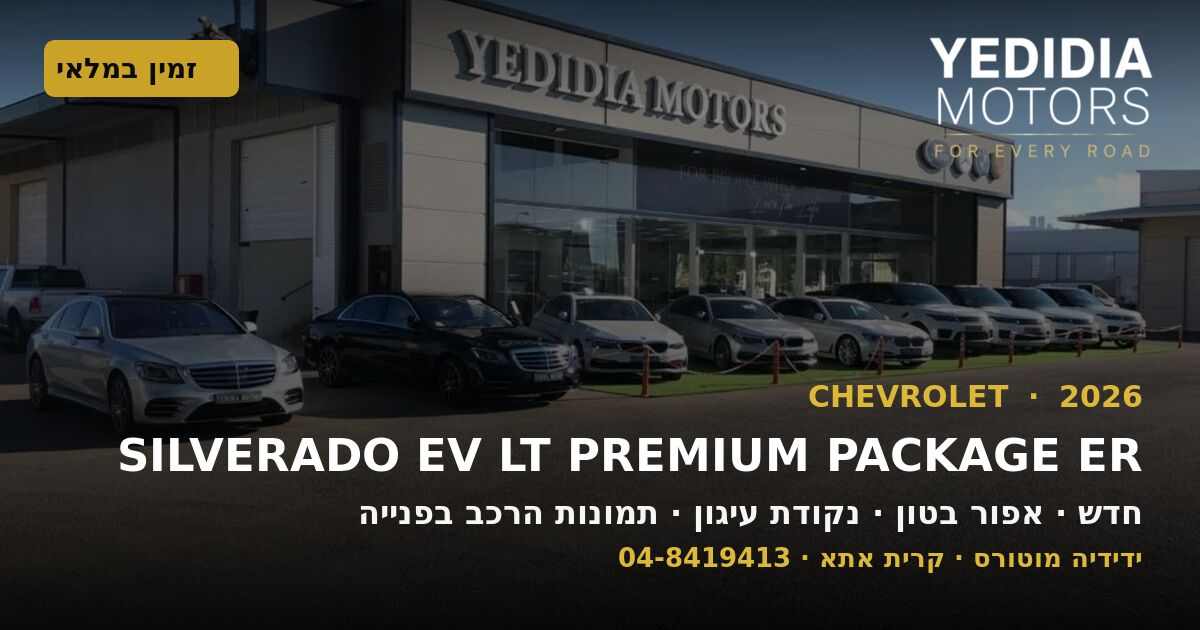
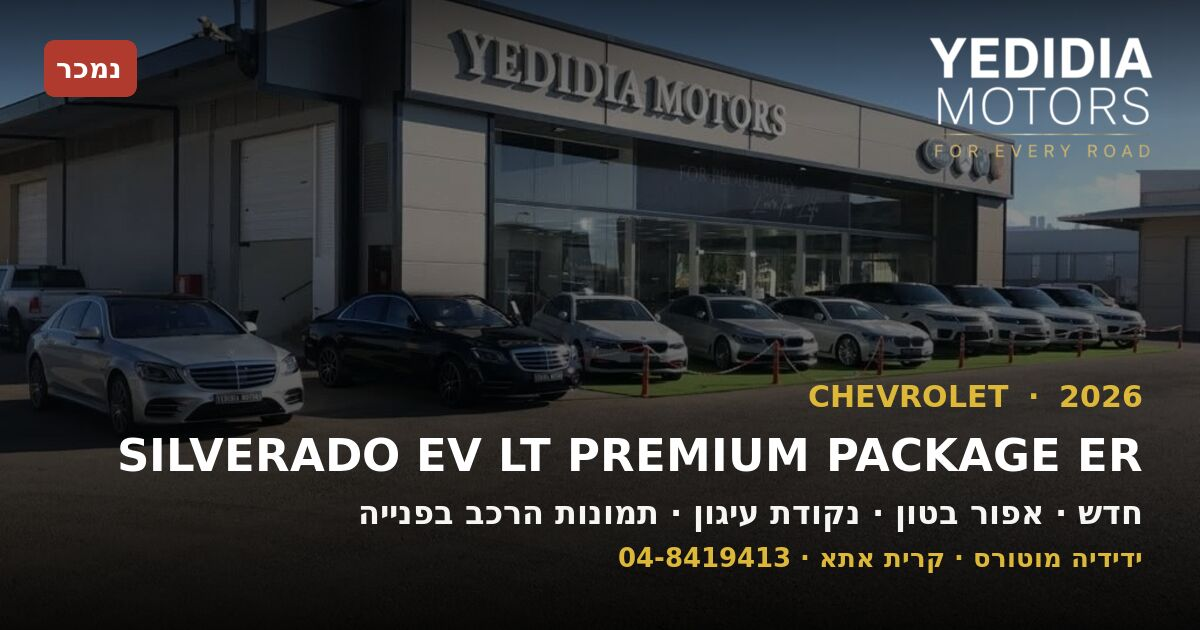
עדכון מלאי, תמונות ועמודי רכב

Changed region(s): [[0.0308, 0.0603, 0.2158, 0.181]]

diff --git a/stock/413288/index.html b/stock/413288/index.html
@@ -4,7 +4,7 @@
 <meta charset="utf-8">
 <meta name="viewport" content="width=device-width, initial-scale=1">
 <title>CHEVROLET SILVERADO EV LT PREMIUM PACKAGE ER 2026 · אפור בטון | ידידיה מוטורס</title>
-<meta name="description" content="CHEVROLET SILVERADO EV LT PREMIUM PACKAGE ER 2026 למכירה בידידיה מוטורס, המעפילים 1, קרית אתא. חדש · 3LT · אפור בטון · חשמלי · הנעה כפולה (AWD) · טנדר · נקודת עיגון · הנעה מרחוק">
+<meta name="description" content="CHEVROLET SILVERADO EV LT PREMIUM PACKAGE ER 2026 שנמכר בידידיה מוטורס, המעפילים 1, קרית אתא. חדש · 3LT · אפור בטון · חשמלי · הנעה כפולה (AWD) · טנדר · נקודת עיגון · הנעה מרחוק">
 <link rel="canonical" href="https://www.yedidia-motors.com/stock/413288/">
 <link rel="stylesheet" href="/assets/fonts/fonts.css">
 <script src="/assets/site.js" defer></script>
@@ -12,7 +12,7 @@
 <meta property="og:site_name" content="ידידיה מוטורס">
 <meta property="og:locale" content="he_IL">
 <meta property="og:title" content="CHEVROLET SILVERADO EV LT PREMIUM PACKAGE ER 2026 · אפור בטון | ידידיה מוטורס">
-<meta property="og:description" content="CHEVROLET SILVERADO EV LT PREMIUM PACKAGE ER 2026 למכירה בידידיה מוטורס, המעפילים 1, קרית אתא. חדש · 3LT · אפור בטון · חשמלי · הנעה כפולה (AWD) · טנדר · נקודת עיגון · הנעה מרחוק">
+<meta property="og:description" content="CHEVROLET SILVERADO EV LT PREMIUM PACKAGE ER 2026 שנמכר בידידיה מוטורס, המעפילים 1, קרית אתא. חדש · 3LT · אפור בטון · חשמלי · הנעה כפולה (AWD) · טנדר · נקודת עיגון · הנעה מרחוק">
 <meta property="og:url" content="https://www.yedidia-motors.com/stock/413288/">
 <meta property="og:image" content="https://www.yedidia-motors.com/assets/vehicles/413288/share.jpg">
 <meta property="og:image:secure_url" content="https://www.yedidia-motors.com/assets/vehicles/413288/share.jpg">
@@ -22,9 +22,9 @@
 <meta property="og:image:alt" content="CHEVROLET SILVERADO EV LT PREMIUM PACKAGE ER 2026 — ידידיה מוטורס">
 <meta name="twitter:card" content="summary_large_image">
 <meta name="twitter:title" content="CHEVROLET SILVERADO EV LT PREMIUM PACKAGE ER 2026 · אפור בטון | ידידיה מוטורס">
-<meta name="twitter:description" content="CHEVROLET SILVERADO EV LT PREMIUM PACKAGE ER 2026 למכירה בידידיה מוטורס, המעפילים 1, קרית אתא. חדש · 3LT · אפור בטון · חשמלי · הנעה כפולה (AWD) · טנדר · נקודת עיגון · הנעה מרחוק">
+<meta name="twitter:description" content="CHEVROLET SILVERADO EV LT PREMIUM PACKAGE ER 2026 שנמכר בידידיה מוטורס, המעפילים 1, קרית אתא. חדש · 3LT · אפור בטון · חשמלי · הנעה כפולה (AWD) · טנדר · נקודת עיגון · הנעה מרחוק">
 <meta name="twitter:image" content="https://www.yedidia-motors.com/assets/vehicles/413288/share.jpg">
-<script type="application/ld+json">{"@context":"https://schema.org","@type":"Car","name":"CHEVROLET SILVERADO EV LT PREMIUM PACKAGE ER 2026","url":"https://www.yedidia-motors.com/stock/413288/","brand":{"@type":"Brand","name":"CHEVROLET"},"model":"SILVERADO EV LT PREMIUM PACKAGE ER","itemCondition":"https://schema.org/NewCondition","offers":{"@type":"Offer","availability":"https://schema.org/InStock","priceCurrency":"ILS","seller":{"@id":"https://www.yedidia-motors.com/#dealer"},"url":"https://www.yedidia-motors.com/stock/413288/"},"vehicleModelDate":"2026","color":"אפור בטון","mileageFromOdometer":{"@type":"QuantitativeValue","value":0,"unitCode":"KMT"},"vehicleConfiguration":"3LT","bodyType":"טנדר","fuelType":"חשמלי","driveWheelConfiguration":"הנעה כפולה (AWD)","numberOfDoors":4,"vehicleEngine":{"@type":"EngineSpecification","name":"חשמלי","fuelType":"חשמלי"},"countryOfOrigin":"ארה״ב"}</script>
+<script type="application/ld+json">{"@context":"https://schema.org","@type":"Car","name":"CHEVROLET SILVERADO EV LT PREMIUM PACKAGE ER 2026","url":"https://www.yedidia-motors.com/stock/413288/","brand":{"@type":"Brand","name":"CHEVROLET"},"model":"SILVERADO EV LT PREMIUM PACKAGE ER","itemCondition":"https://schema.org/NewCondition","offers":{"@type":"Offer","availability":"https://schema.org/SoldOut","priceCurrency":"ILS","seller":{"@id":"https://www.yedidia-motors.com/#dealer"},"url":"https://www.yedidia-motors.com/stock/413288/"},"vehicleModelDate":"2026","color":"אפור בטון","mileageFromOdometer":{"@type":"QuantitativeValue","value":0,"unitCode":"KMT"},"vehicleConfiguration":"3LT","bodyType":"טנדר","fuelType":"חשמלי","driveWheelConfiguration":"הנעה כפולה (AWD)","numberOfDoors":4,"vehicleEngine":{"@type":"EngineSpecification","name":"חשמלי","fuelType":"חשמלי"},"countryOfOrigin":"ארה״ב"}</script>
 <script type="application/ld+json">{"@context":"https://schema.org","@type":"BreadcrumbList","itemListElement":[{"@type":"ListItem","position":1,"name":"ידידיה מוטורס","item":"https://www.yedidia-motors.com/"},{"@type":"ListItem","position":2,"name":"המלאי שלנו","item":"https://www.yedidia-motors.com/stock/"},{"@type":"ListItem","position":3,"name":"CHEVROLET SILVERADO EV LT PREMIUM PACKAGE ER 2026"}]}</script>
 <style>
   :root{--bg:#0b0b0c;--bg-2:#141416;--bg-3:#1b1b1e;--line:#2a2a2e;--fg:#f5f5f3;--muted:#a1a1aa;--gold:#c9a227}
@@ -73,13 +73,13 @@
 
 <main class="wrap" id="main" tabindex="-1">
   <h1>CHEVROLET SILVERADO EV LT PREMIUM PACKAGE ER 2026</h1>
-  <p class="sub">אפור בטון · חדש · זמין</p>
+  <p class="sub">אפור בטון · חדש · נמכר</p>
   
 
   <div class="none">אין עדיין תמונות לרכב הזה. צרו קשר ונשלח לכם תמונות עדכניות.</div>
 
   <h2>מפרט</h2>
-  <table><tr><th>יצרן</th><td>CHEVROLET</td></tr><tr><th>דגם</th><td>SILVERADO EV LT PREMIUM PACKAGE ER</td></tr><tr><th>שנת דגם</th><td>2026</td></tr><tr><th>גימור</th><td>3LT</td></tr><tr><th>צבע</th><td>אפור בטון</td></tr><tr><th>קילומטראז׳</th><td>0 ק״מ</td></tr><tr><th>מצב הרכב</th><td>חדש</td></tr><tr><th>מרכב</th><td>טנדר</td></tr><tr><th>מנוע</th><td>חשמלי</td></tr><tr><th>דלק</th><td>חשמלי</td></tr><tr><th>הנעה</th><td>הנעה כפולה (AWD)</td></tr><tr><th>דלתות</th><td>4</td></tr><tr><th>הספק</th><td>645 כ״ס</td></tr><tr><th>טווח נסיעה</th><td>עד כ־660 ק״מ (הערכת יצרן)</td></tr><tr><th>טעינה מהירה</th><td>עד 300 קילוואט DC</td></tr><tr><th>כושר גרירה</th><td>עד כ־5,670 ק״ג</td></tr><tr><th>משקל כולל מותר</th><td>עד 4,536 ק״ג</td></tr><tr><th>ארץ ייצור</th><td>ארה״ב</td></tr><tr><th>סטטוס</th><td>זמין</td></tr><tr><th>מזהה</th><td>413288</td></tr></table>
+  <table><tr><th>יצרן</th><td>CHEVROLET</td></tr><tr><th>דגם</th><td>SILVERADO EV LT PREMIUM PACKAGE ER</td></tr><tr><th>שנת דגם</th><td>2026</td></tr><tr><th>גימור</th><td>3LT</td></tr><tr><th>צבע</th><td>אפור בטון</td></tr><tr><th>קילומטראז׳</th><td>0 ק״מ</td></tr><tr><th>מצב הרכב</th><td>חדש</td></tr><tr><th>מרכב</th><td>טנדר</td></tr><tr><th>מנוע</th><td>חשמלי</td></tr><tr><th>דלק</th><td>חשמלי</td></tr><tr><th>הנעה</th><td>הנעה כפולה (AWD)</td></tr><tr><th>דלתות</th><td>4</td></tr><tr><th>הספק</th><td>645 כ״ס</td></tr><tr><th>טווח נסיעה</th><td>עד כ־660 ק״מ (הערכת יצרן)</td></tr><tr><th>טעינה מהירה</th><td>עד 300 קילוואט DC</td></tr><tr><th>כושר גרירה</th><td>עד כ־5,670 ק״ג</td></tr><tr><th>משקל כולל מותר</th><td>עד 4,536 ק״ג</td></tr><tr><th>ארץ ייצור</th><td>ארה״ב</td></tr><tr><th>סטטוס</th><td>נמכר</td></tr><tr><th>מזהה</th><td>413288</td></tr></table>
 
   <h2>אבזור</h2>
   <ul class="eq"><li>סוללת Extended Range — טווח עד כ־660 ק״מ (410 מייל, EPA)</li><li>שני מנועים, הנעה 4WD — 645 כ״ס ו־765 ליברות-רגל במצב WOW</li><li>טעינה מהירה DC עד 300 קילוואט; מטען AC מובנה 11.5 קילוואט</li><li>מסך מרכזי 17.7 אינץ׳ עם Google Built-in ולוח מחוונים דיגיטלי 11 אינץ׳</li><li>תאורת LED מלאה כולל סמל Bowtie קדמי מואר</li><li>תא מטען קדמי חשמלי (eTrunk) עם מכסה מנוע חשמלי</li><li>בקרת אקלים דו־אזורית, טעינה אלחוטית, תאורת אווירה</li><li>בקרת שיוט אדפטיבית, Chevy Safety Assist, מצלמות HD Surround Vision, בקר בלמי גרור</li><li>כניסה והתנעה ללא מפתח, התנעה מרחוק, Hitch Guidance</li><li>כושר גרירה עד כ־5,670 ק״ג</li><li>חבילת Premium: Super Cruise — נהיגה ללא ידיים בכבישים ממופים, תצוגה עילית 14 אינץ׳, Multi-Flex Midgate — פתח בין הארגז לתא הנוסעים, מטען AC 19.2 קילוואט, חניה אוטומטית משופרת, ציפוי ארגז</li></ul>
@@ -98,7 +98,7 @@
   </div>
 
   <div class="share" aria-label="שיתוף">
-    <a href="https://wa.me/?text=%F0%9F%9A%98%20CHEVROLET%20SILVERADO%20EV%20LT%20PREMIUM%20PACKAGE%20ER%202026%0A%D7%97%D7%93%D7%A9%20%C2%B7%203LT%20%C2%B7%20%D7%90%D7%A4%D7%95%D7%A8%20%D7%91%D7%98%D7%95%D7%9F%20%C2%B7%20%D7%A0%D7%A7%D7%95%D7%93%D7%AA%20%D7%A2%D7%99%D7%92%D7%95%D7%9F%20%C2%B7%20%D7%94%D7%A0%D7%A2%D7%94%20%D7%9E%D7%A8%D7%97%D7%95%D7%A7%0A%D7%97%D7%A9%D7%9E%D7%9C%D7%99%20%C2%B7%20%D7%94%D7%A0%D7%A2%D7%94%20%D7%9B%D7%A4%D7%95%D7%9C%D7%94%20(AWD)%20%C2%B7%20%D7%98%D7%A0%D7%93%D7%A8%0A%E2%9C%94%20%D7%A1%D7%95%D7%9C%D7%9C%D7%AA%20Extended%20Range%20%E2%80%94%20%D7%98%D7%95%D7%95%D7%97%20%D7%A2%D7%93%20%D7%9B%D6%BE660%20%D7%A7%D7%B4%D7%9E%20(410%20%D7%9E%D7%99%D7%99%D7%9C%2C%20EPA)%0A%E2%9C%94%20%D7%A9%D7%A0%D7%99%20%D7%9E%D7%A0%D7%95%D7%A2%D7%99%D7%9D%2C%20%D7%94%D7%A0%D7%A2%D7%94%204WD%20%E2%80%94%20645%20%D7%9B%D7%B4%D7%A1%20%D7%95%D6%BE765%20%D7%9C%D7%99%D7%91%D7%A8%D7%95%D7%AA-%D7%A8%D7%92%D7%9C%20%D7%91%D7%9E%D7%A6%D7%91%20WOW%0A%E2%9C%94%20%D7%98%D7%A2%D7%99%D7%A0%D7%94%20%D7%9E%D7%94%D7%99%D7%A8%D7%94%20DC%20%D7%A2%D7%93%20300%20%D7%A7%D7%99%D7%9C%D7%95%D7%95%D7%90%D7%98%3B%20%D7%9E%D7%98%D7%A2%D7%9F%20AC%20%D7%9E%D7%95%D7%91%D7%A0%D7%94%2011.5%20%D7%A7%D7%99%D7%9C%D7%95%D7%95%D7%90%D7%98%0A%D7%91%D7%9E%D7%9C%D7%90%D7%99%20%D7%91%D7%99%D7%93%D7%99%D7%93%D7%99%D7%94%20%D7%9E%D7%95%D7%98%D7%95%D7%A8%D7%A1%2C%20%D7%A7%D7%A8%D7%99%D7%AA%20%D7%90%D7%AA%D7%90.%20%D7%9C%D7%A4%D7%A8%D7%98%D7%99%D7%9D%20%D7%95%D7%AA%D7%99%D7%90%D7%95%D7%9D%20%D7%A0%D7%A1%D7%99%D7%A2%D7%AA%20%D7%9E%D7%91%D7%97%D7%9F%3A%2004-8419413%0Ahttps%3A%2F%2Fwww.yedidia-motors.com%2Fstock%2F413288%2F" target="_blank" rel="noopener" aria-label="שיתוף בוואטסאפ" title="שיתוף בוואטסאפ"><svg viewBox="0 0 24 24" aria-hidden="true"><path d="M17.5 14.4c-.3-.1-1.8-.9-2-1-.3-.1-.5-.1-.7.1-.2.3-.8 1-1 1.2-.2.2-.3.2-.6.1-.3-.1-1.3-.5-2.4-1.5-.9-.8-1.5-1.8-1.7-2.1-.2-.3 0-.5.1-.6l.5-.5c.1-.2.2-.3.3-.5.1-.2 0-.4 0-.5l-.9-2.2c-.2-.6-.5-.5-.7-.5h-.6c-.2 0-.5.1-.8.4-.3.3-1 1-1 2.5s1.1 2.9 1.2 3.1c.1.2 2.1 3.2 5.1 4.5.7.3 1.3.5 1.7.6.7.2 1.4.2 1.9.1.6-.1 1.8-.7 2-1.4.2-.7.2-1.3.2-1.4-.1-.2-.3-.3-.6-.4zM12 2C6.5 2 2 6.5 2 12c0 1.8.5 3.5 1.3 5L2 22l5.2-1.4c1.4.8 3.1 1.2 4.8 1.2 5.5 0 10-4.5 10-10S17.5 2 12 2zm0 18.2c-1.5 0-3-.4-4.2-1.2l-.3-.2-3.1.8.8-3-.2-.3C4.2 15 3.8 13.5 3.8 12c0-4.5 3.7-8.2 8.2-8.2s8.2 3.7 8.2 8.2-3.7 8.2-8.2 8.2z"/></svg></a>
+    <a href="https://wa.me/?text=%F0%9F%9A%98%20CHEVROLET%20SILVERADO%20EV%20LT%20PREMIUM%20PACKAGE%20ER%202026%0A%D7%97%D7%93%D7%A9%20%C2%B7%203LT%20%C2%B7%20%D7%90%D7%A4%D7%95%D7%A8%20%D7%91%D7%98%D7%95%D7%9F%20%C2%B7%20%D7%A0%D7%A7%D7%95%D7%93%D7%AA%20%D7%A2%D7%99%D7%92%D7%95%D7%9F%20%C2%B7%20%D7%94%D7%A0%D7%A2%D7%94%20%D7%9E%D7%A8%D7%97%D7%95%D7%A7%0A%D7%97%D7%A9%D7%9E%D7%9C%D7%99%20%C2%B7%20%D7%94%D7%A0%D7%A2%D7%94%20%D7%9B%D7%A4%D7%95%D7%9C%D7%94%20(AWD)%20%C2%B7%20%D7%98%D7%A0%D7%93%D7%A8%0A%E2%9C%94%20%D7%A1%D7%95%D7%9C%D7%9C%D7%AA%20Extended%20Range%20%E2%80%94%20%D7%98%D7%95%D7%95%D7%97%20%D7%A2%D7%93%20%D7%9B%D6%BE660%20%D7%A7%D7%B4%D7%9E%20(410%20%D7%9E%D7%99%D7%99%D7%9C%2C%20EPA)%0A%E2%9C%94%20%D7%A9%D7%A0%D7%99%20%D7%9E%D7%A0%D7%95%D7%A2%D7%99%D7%9D%2C%20%D7%94%D7%A0%D7%A2%D7%94%204WD%20%E2%80%94%20645%20%D7%9B%D7%B4%D7%A1%20%D7%95%D6%BE765%20%D7%9C%D7%99%D7%91%D7%A8%D7%95%D7%AA-%D7%A8%D7%92%D7%9C%20%D7%91%D7%9E%D7%A6%D7%91%20WOW%0A%E2%9C%94%20%D7%98%D7%A2%D7%99%D7%A0%D7%94%20%D7%9E%D7%94%D7%99%D7%A8%D7%94%20DC%20%D7%A2%D7%93%20300%20%D7%A7%D7%99%D7%9C%D7%95%D7%95%D7%90%D7%98%3B%20%D7%9E%D7%98%D7%A2%D7%9F%20AC%20%D7%9E%D7%95%D7%91%D7%A0%D7%94%2011.5%20%D7%A7%D7%99%D7%9C%D7%95%D7%95%D7%90%D7%98%0A%D7%A0%D7%9E%D7%9B%D7%A8%20%E2%80%94%20%D7%90%D7%91%D7%9C%20%D7%99%D7%A9%20%D7%A2%D7%95%D7%93%20%D7%91%D7%9E%D7%9C%D7%90%D7%99.%0Ahttps%3A%2F%2Fwww.yedidia-motors.com%2Fstock%2F413288%2F" target="_blank" rel="noopener" aria-label="שיתוף בוואטסאפ" title="שיתוף בוואטסאפ"><svg viewBox="0 0 24 24" aria-hidden="true"><path d="M17.5 14.4c-.3-.1-1.8-.9-2-1-.3-.1-.5-.1-.7.1-.2.3-.8 1-1 1.2-.2.2-.3.2-.6.1-.3-.1-1.3-.5-2.4-1.5-.9-.8-1.5-1.8-1.7-2.1-.2-.3 0-.5.1-.6l.5-.5c.1-.2.2-.3.3-.5.1-.2 0-.4 0-.5l-.9-2.2c-.2-.6-.5-.5-.7-.5h-.6c-.2 0-.5.1-.8.4-.3.3-1 1-1 2.5s1.1 2.9 1.2 3.1c.1.2 2.1 3.2 5.1 4.5.7.3 1.3.5 1.7.6.7.2 1.4.2 1.9.1.6-.1 1.8-.7 2-1.4.2-.7.2-1.3.2-1.4-.1-.2-.3-.3-.6-.4zM12 2C6.5 2 2 6.5 2 12c0 1.8.5 3.5 1.3 5L2 22l5.2-1.4c1.4.8 3.1 1.2 4.8 1.2 5.5 0 10-4.5 10-10S17.5 2 12 2zm0 18.2c-1.5 0-3-.4-4.2-1.2l-.3-.2-3.1.8.8-3-.2-.3C4.2 15 3.8 13.5 3.8 12c0-4.5 3.7-8.2 8.2-8.2s8.2 3.7 8.2 8.2-3.7 8.2-8.2 8.2z"/></svg></a>
     <a href="https://www.facebook.com/sharer/sharer.php?u=https%3A%2F%2Fwww.yedidia-motors.com%2Fstock%2F413288%2F" target="_blank" rel="noopener" aria-label="שיתוף בפייסבוק" title="שיתוף בפייסבוק"><svg viewBox="0 0 24 24" aria-hidden="true"><path d="M13.5 22v-8h2.7l.4-3.2h-3.1V8.8c0-.9.3-1.6 1.6-1.6h1.7V4.4c-.3 0-1.3-.1-2.5-.1-2.5 0-4.1 1.5-4.1 4.2v2.3H7.4V14h2.8v8h3.3z"/></svg></a>
   </div>
 </main>

diff --git a/stock/index.html b/stock/index.html
@@ -234,7 +234,7 @@
 <li><a href="/stock/495842/">MERCEDES GLC COUPE 300 4MATIC 2026</a> — 2026 · אפור בטון · חדש · זמין</li>
 <li><a href="/stock/414331/">CHEVROLET SILVERADO EV 8WT MR 2026</a> — 2026 · לבן · חדש · זמין</li>
 <li><a href="/stock/415561/">CHEVROLET SILVERADO EV LT PREMIUM PACKAGE ER 2026</a> — 2026 · שחור · חדש · זמין</li>
-<li><a href="/stock/413288/">CHEVROLET SILVERADO EV LT PREMIUM PACKAGE ER 2026</a> — 2026 · אפור בטון · חדש · זמין</li>
+<li><a href="/stock/413288/">CHEVROLET SILVERADO EV LT PREMIUM PACKAGE ER 2026</a> — 2026 · אפור בטון · חדש · נמכר</li>
 <li><a href="/stock/413563/">CHEVROLET SILVERADO EV LT PLUS ER 2026</a> — 2026 · בלו סמוק · חדש · זמין</li>
 <li><a href="/stock/414671/">CHEVROLET SILVERADO LT EV MR 2026</a> — 2026 · בלו סמוק · חדש · זמין</li>
 <li><a href="/stock/410292/">CHEVROLET SILVERADO EV TRAIL BOSS MR 2026 2026</a> — 2026 · כחול · חדש · נמכר</li>
